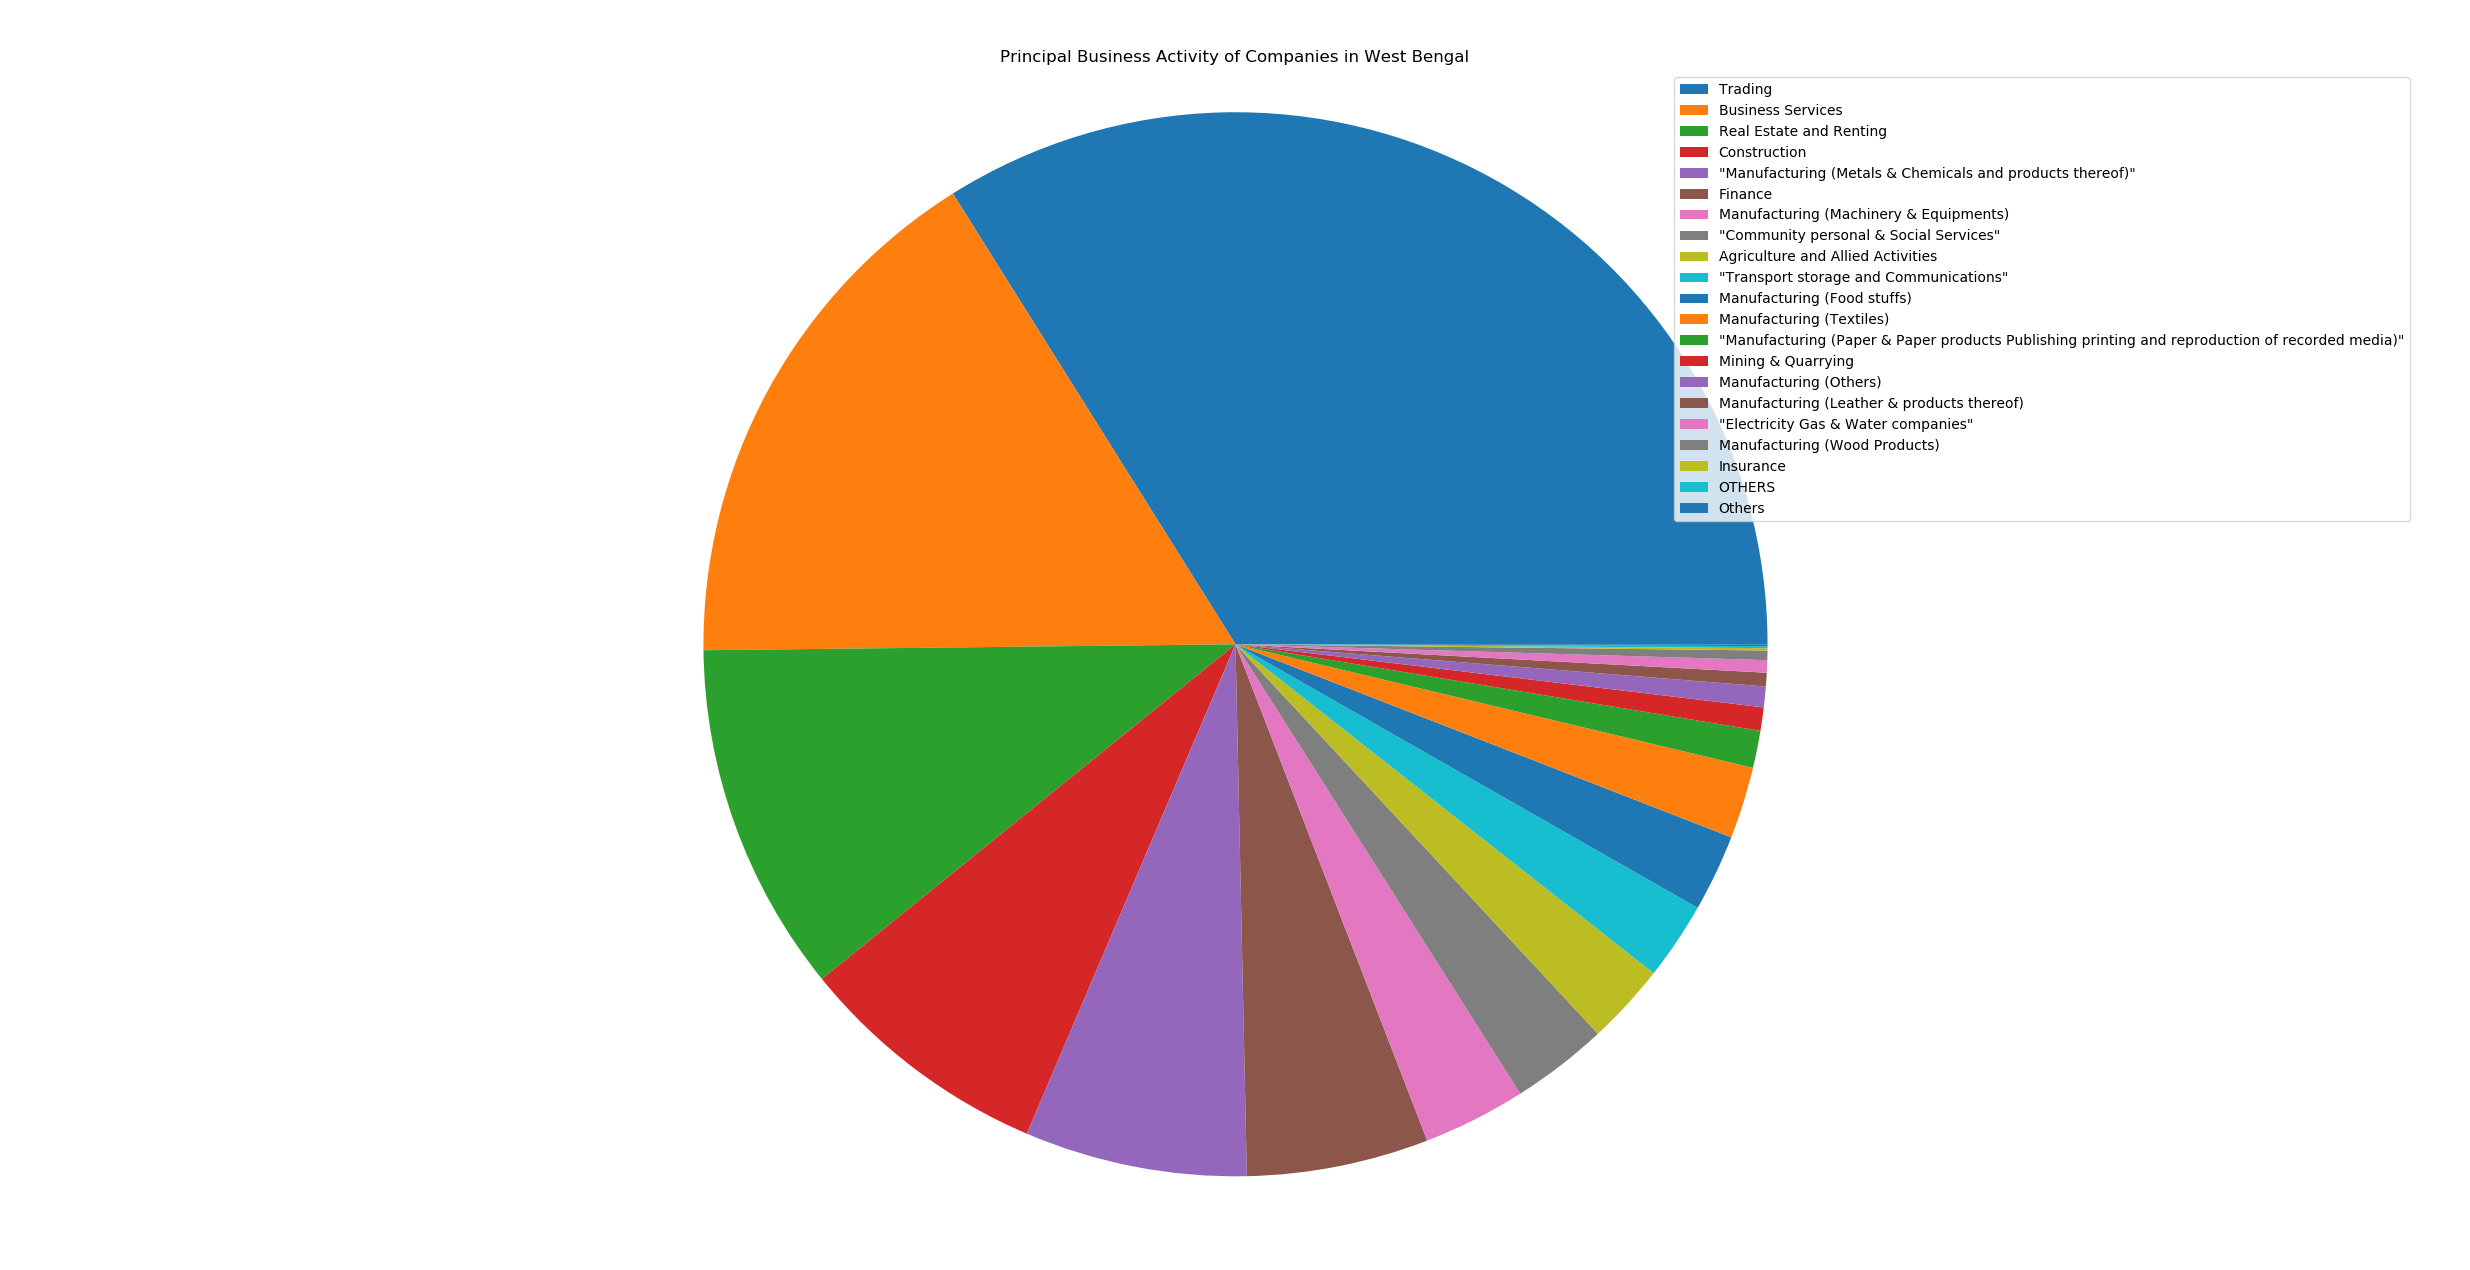
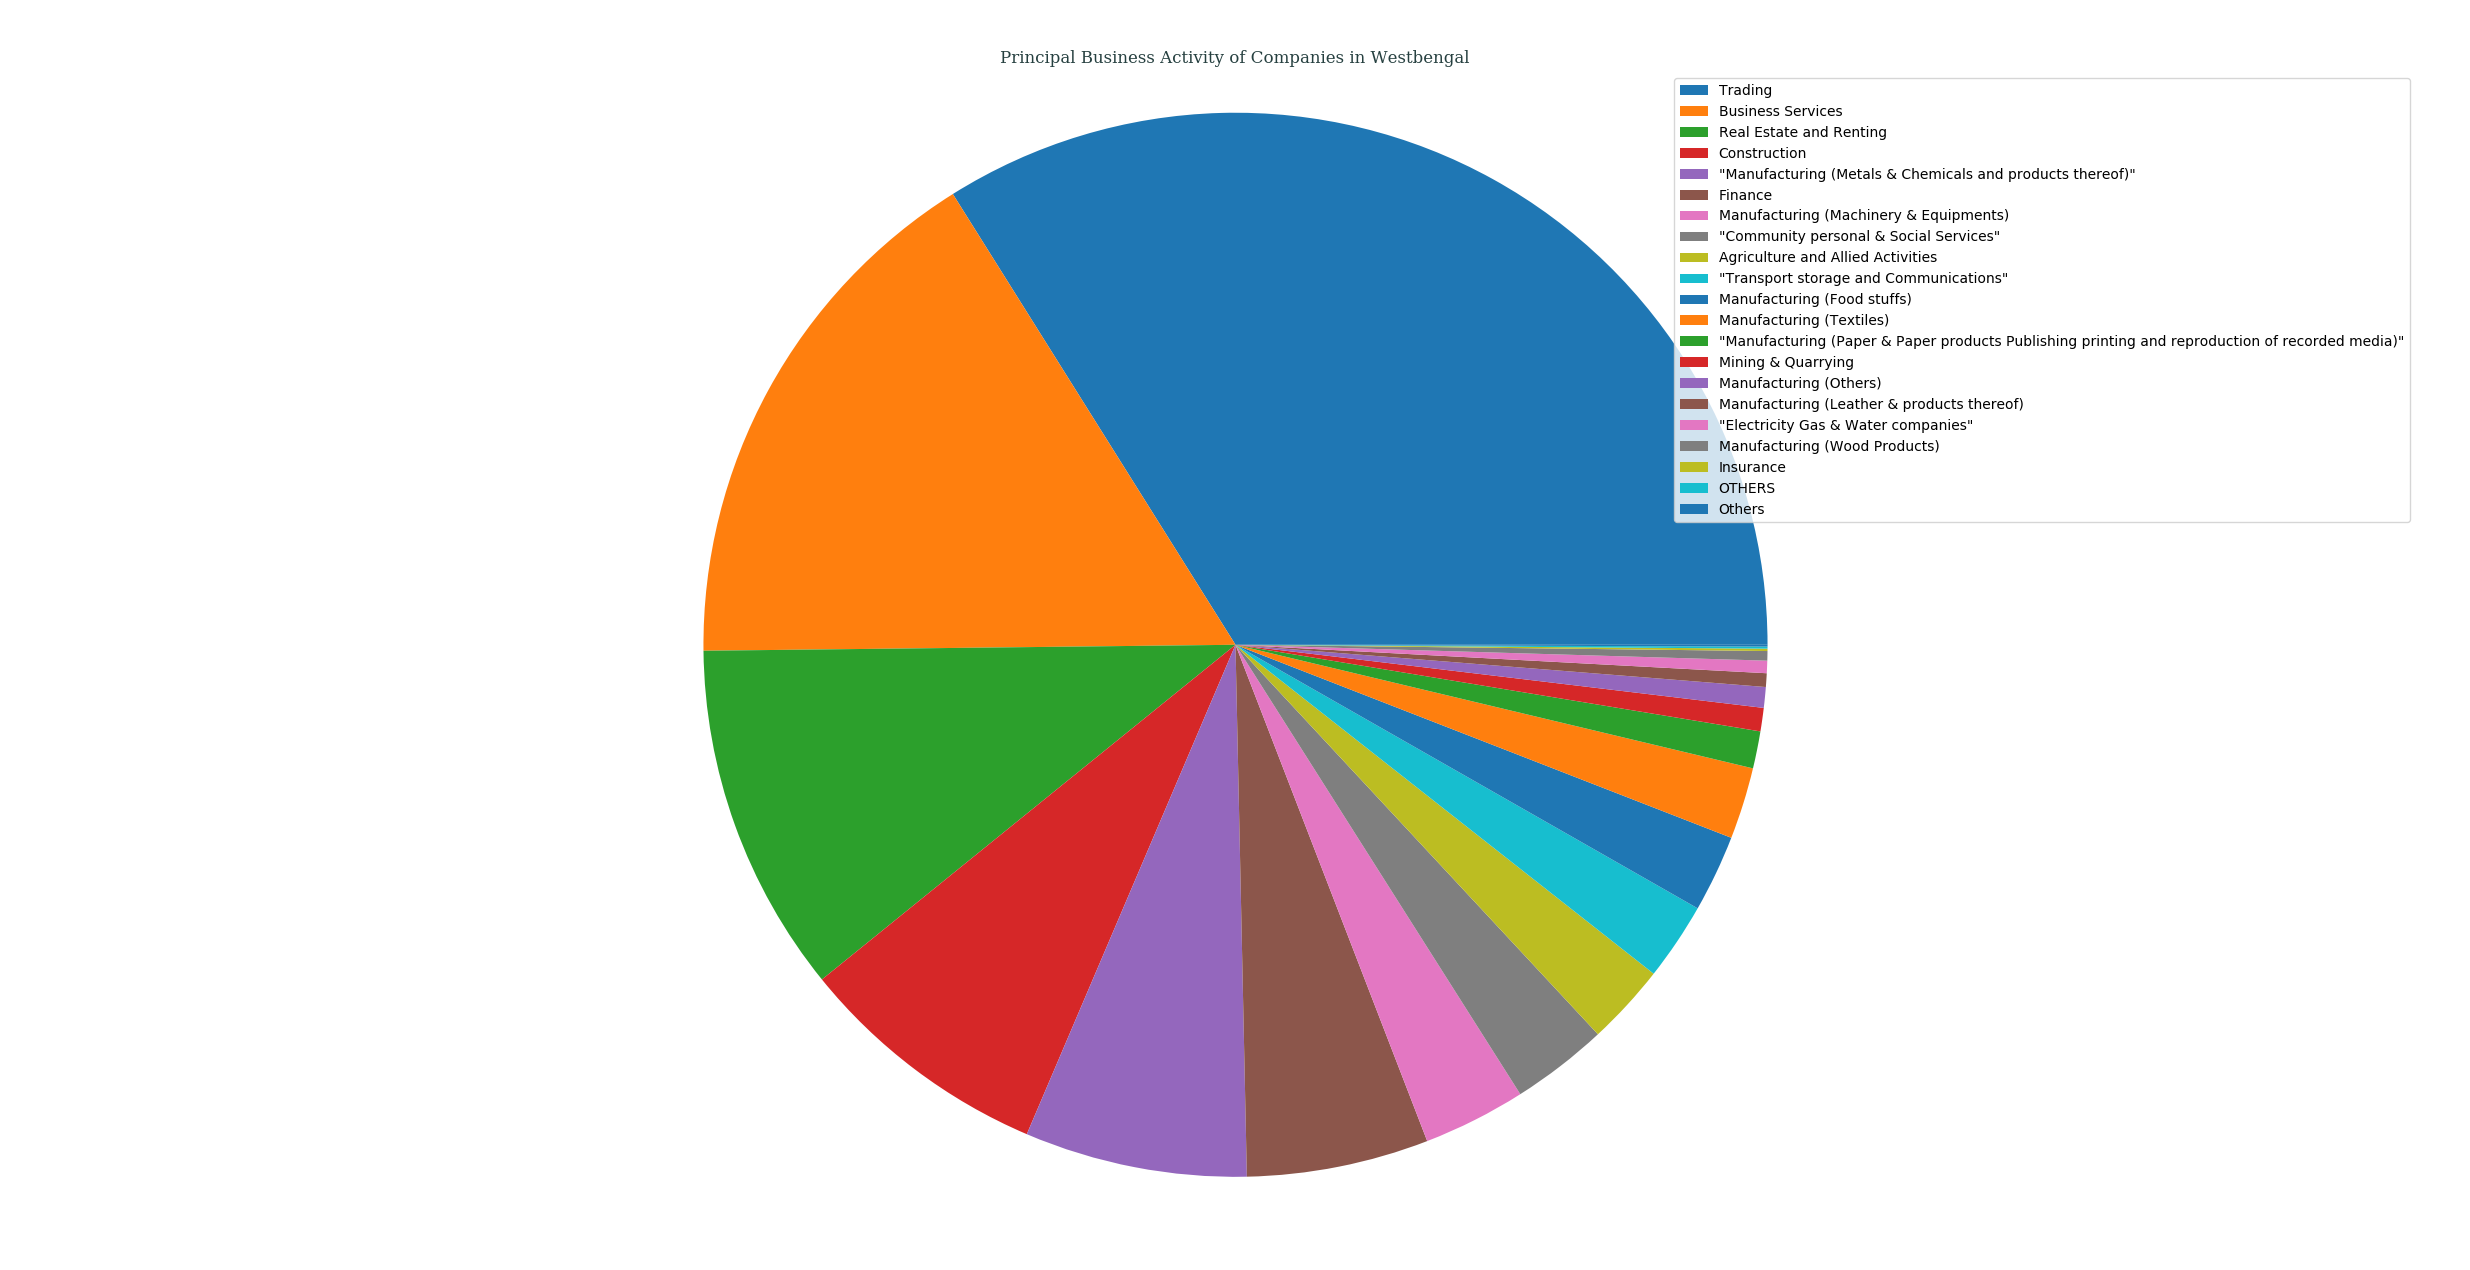
written companies registered on yearly basis in West Bengal, India, based classifier & plotter

diff --git a/app.py b/app.py
@@ -1,7 +1,8 @@
 #!/usr/bin/python3
 
 from re import compile as reg_compile
-from os.path import basename
+from os.path import basename, join
+from os import listdir
 from functools import reduce
 try:
     from model.corporateStat import CompaniesUnderState
@@ -10,8 +11,17 @@ except ImportError as e:
     print('[!]Module Unavailable: {}'.format(str(e)))
     exit(1)
 
+'''
+    Reads from each CSV datafiles present in `./data/`,
+    holding Ministry of Corporate Affair's ( M.C.A. ) Company Data
+    for a certain state & generates 6 plots for each of them.
 
-def main(targetPath='./data/mca_westbengal_21042018.csv') -> float:
+    5 of them will be PIE charts & 1 will be simple plotting 
+    of registration year vs. #-of companies registered in that year.
+'''
+
+
+def main(targetPath='./data/') -> float:
     '''
         Given a CSV data file name, it'll simply extract
         State name using Regular Expression(s)
@@ -37,21 +47,31 @@ def main(targetPath='./data/mca_westbengal_21042018.csv') -> float:
         return reduce(lambda acc, cur: (acc[0] + 1, acc[1]+1) if cur else (acc[0], acc[1]+1), result, (0, 0))
 
     try:
-        companiesUnderState = CompaniesUnderState.importFromCSV(
-            __extract_state__(basename(targetPath)), targetPath=targetPath)
         return __divide__(
-            *__calculateSuccess__([
-                plotCategorizedCompanyDataForACertainState(categorizeAsPerCompanyStatus(
-                    companiesUnderState.companies), './plots/{}_company_status.png'.format(basename(targetPath)[:-4]), 'Status of Companies in West Bengal'),
-                plotCategorizedCompanyDataForACertainState(categorizeAsPerCompanyClass(
-                    companiesUnderState.companies), './plots/{}_company_class.png'.format(basename(targetPath)[:-4]), 'Class of Companies in West Bengal'),
-                plotCategorizedCompanyDataForACertainState(categorizeAsPerCompanyCategory(
-                    companiesUnderState.companies), './plots/{}_company_category.png'.format(basename(targetPath)[:-4]), 'Category of Companies in West Bengal'),
-                plotCategorizedCompanyDataForACertainState(categorizeAsPerCompanySubCategory(
-                    companiesUnderState.companies), './plots/{}_company_subCategory.png'.format(basename(targetPath)[:-4]), 'SubCategory of Companies in West Bengal'),
-                plotCategorizedCompanyDataForACertainState(categorizeAsPerCompanyPrincipalBusinessActivity(
-                    companiesUnderState.companies), './plots/{}_company_principalBusinessActivity.png'.format(basename(targetPath)[:-4]), 'Principal Business Activity of Companies in West Bengal')
-            ])
+            *__calculateSuccess__(
+                reduce(lambda acc, cur: [
+                    plotCategorizedCompanyDataForACertainState(categorizeAsPerCompanyStatus(
+                        CompaniesUnderState.importFromCSV(
+                            __extract_state__(basename(cur)), targetPath=cur).companies), './plots/{}_company_status.png'.format(basename(cur)[:-4]), 'Status of Companies in {}'.format(__extract_state__(basename(cur)))),
+                    plotCategorizedCompanyDataForACertainState(categorizeAsPerCompanyClass(
+                        CompaniesUnderState.importFromCSV(
+                            __extract_state__(basename(cur)), targetPath=cur).companies), './plots/{}_company_class.png'.format(basename(cur)[:-4]), 'Class of Companies in {}'.format(__extract_state__(basename(cur)))),
+                    plotCategorizedCompanyDataForACertainState(categorizeAsPerCompanyCategory(
+                        CompaniesUnderState.importFromCSV(
+                            __extract_state__(basename(cur)), targetPath=cur).companies), './plots/{}_company_category.png'.format(basename(cur)[:-4]), 'Category of Companies in {}'.format(__extract_state__(basename(cur)))),
+                    plotCategorizedCompanyDataForACertainState(categorizeAsPerCompanySubCategory(
+                        CompaniesUnderState.importFromCSV(
+                            __extract_state__(basename(cur)), targetPath=cur).companies), './plots/{}_company_subCategory.png'.format(basename(cur)[:-4]), 'SubCategory of Companies in {}'.format(__extract_state__(basename(cur)))),
+                    plotCategorizedCompanyDataForACertainState(categorizeAsPerCompanyPrincipalBusinessActivity(
+                        CompaniesUnderState.importFromCSV(
+                            __extract_state__(basename(cur)), targetPath=cur).companies), './plots/{}_company_principalBusinessActivity.png'.format(basename(cur)[:-4]), 'Principal Business Activity of Companies in {}'.format(__extract_state__(basename(cur)))),
+                    plotCompanyRegistrationDateWiseCategorizedData(categorizeAsPerCompanyDateOfRegistration(
+                        CompaniesUnderState.importFromCSV(
+                            __extract_state__(basename(cur)), targetPath=cur).companies), './plots/{}_company_dateOfRegistration.png'.format(basename(cur)[:-4]), 'Registration of Companies in {}'.format(__extract_state__(basename(cur))))
+                ] + acc,
+                    map(lambda v: join(targetPath, v),
+                        filter(lambda v: v.endswith('csv'), listdir(targetPath))), [])
+            )
         )  # calculating rate of success of these operation(s)
     except Exception:
         return 0.0

diff --git a/util.py b/util.py
@@ -5,6 +5,7 @@ from os.path import dirname, exists
 from os import mkdir
 try:
     from matplotlib import pyplot as plt
+    from matplotlib.ticker import MultipleLocator, FormatStrFormatter
 except ImportError as e:
     print('[!]Module Unavailable : {}'.format(str(e)))
     exit(1)
@@ -22,6 +23,12 @@ def plotCategorizedCompanyDataForACertainState(dataSet, targetPath, title):
         if(not exists(dirname(targetPath))):
             # creating target directory if not existing already
             mkdir(dirname(targetPath))
+        font = {
+            'family': 'serif',
+            'color': '#264040',
+            'weight': 'normal',
+            'size': 12
+        }
         labels = sorted(dataSet, key=lambda elem:
                         dataSet[elem], reverse=True)
         # this is the actual data to be plotted
@@ -29,8 +36,8 @@ def plotCategorizedCompanyDataForACertainState(dataSet, targetPath, title):
         # figure on which pie chart to be drawn ( of size 2400x1200 )
         plt.figure(figsize=(24, 12), dpi=100)
         patches, _ = plt.pie(data)  # plotting pie chart
-        plt.legend(patches, labels, loc='best')
-        plt.title(title)
+        plt.legend(patches, labels, loc='best', fontsize='medium')
+        plt.title(title, fontdict=font)
         plt.axis('equal')
         plt.tight_layout()
         plt.savefig(targetPath, bbox_inches='tight',
@@ -94,6 +101,61 @@ def categorizeAsPerCompanySubCategory(dataSet):
 
 def categorizeAsPerCompanyPrincipalBusinessActivity(dataSet):
     return reduce(lambda acc, cur: dict([(cur.principalBusinessActivity, 1)] + [(k, v) for k, v in acc.items()]) if cur.principalBusinessActivity not in acc else dict(((k, v + 1) if k == cur.principalBusinessActivity else (k, v) for k, v in acc.items())), dataSet, {})
+
+
+'''
+    Plots a graph of year of registration vs. #-of companies registered
+    in that certain year, while using dataset obtained from function defined just below it.
+'''
+
+
+def plotCompanyRegistrationDateWiseCategorizedData(dataSet, targetPath, title):
+    try:
+        if(not exists(dirname(targetPath))):
+            # creating target directory if not existing already
+            mkdir(dirname(targetPath))
+        # style `ggplot` is in use
+        with plt.style.context('ggplot'):
+            font = {
+                'family': 'serif',
+                'color': '#264040',
+                'weight': 'normal',
+                'size': 12
+            }
+            # a range from `first when a company was registered` to `nearest year upto which we have any status`
+            x = range(min(dataSet), max(dataSet) + 1)
+            y = [dataSet.get(i, 0) for i in x]
+            plt.figure(figsize=(24, 12), dpi=100)
+            # creating major x-tick locator every 10 years
+            plt.gca().xaxis.set_major_locator(MultipleLocator(10))
+            # creating x-tick formatter using only year name
+            plt.gca().xaxis.set_major_formatter(FormatStrFormatter('%d'))
+            # setting minor x-tick locator every 1 year
+            plt.gca().xaxis.set_minor_locator(MultipleLocator(1))
+            plt.plot(x, y, 'r-', lw=1.5)
+            plt.xlabel('Year', fontdict=font, labelpad=16)
+            plt.ylabel('# of Companies Registered', fontdict=font, labelpad=16)
+            plt.title(title, fontdict=font)
+            plt.savefig(targetPath, bbox_inches='tight', pad_inches=.5)
+            plt.close()
+        return True
+    except Exception:
+        return False
+
+
+'''
+    Filters out those companies which has `dateOfRegistration` field None
+    & classifies remaining ones using year of registration
+
+    So finally we get a Dict[int, int], holding a mapping between
+    year of registration & #-of companies registered in that year,
+    which is going to be used by above function for plotting a graph.
+'''
+
+
+def categorizeAsPerCompanyDateOfRegistration(dataSet):
+    return reduce(lambda acc, cur: dict([(cur.dateOfRegistration.year, 1)] + [(k, v) for k, v in acc.items()]) if cur.dateOfRegistration.year not in acc else dict(((k, v + 1) if k == cur.dateOfRegistration.year else (k, v) for k, v in acc.items())),
+                  filter(lambda v: v.dateOfRegistration is not None, dataSet), {})
 
 
 if __name__ == '__main__':

diff --git a/model/corporateStat.py b/model/corporateStat.py
@@ -88,7 +88,7 @@ class CompaniesUnderState:
             # which is to be processed for creating an instance of Company class
             with open(targetPath, mode='r', encoding='ISO-8859-1') as fd:
                 companiesUnderStateObject = CompaniesUnderState(
-                    state, [Company(*__fixCommaIssueInAddress__(line).split(',')[:-2]) for line in fd.readlines()[1:]])
+                    state, (Company(*__fixCommaIssueInAddress__(line).split(',')[:-2]) for line in fd.readlines()[1:]))
         except Exception:
             companiesUnderStateObject = None
         finally:

diff --git a/README.md b/README.md
@@ -2,7 +2,6 @@
 Data analysis done on Ministry of Corporate Affairs, Govt. of India's open data to get deeper insight, with :heart:
 
 ## Analysis of M.C.A. Data for _West Bengal_
----
 ### Status of Companies
 Following PIE chart shows an overview of STATUS _( as of 21-04-2018 )_ of various companies in West Bengal, India.
 - Active ( 136423 )
@@ -82,5 +81,11 @@ Following PIE chart shows various companies categorized by their PRINCIPAL_BUSIN
 - Others ( 0.05% )
 
 ![companies_categorized_by_principalBusinessActivity_in_west_bengal](plots/mca_westbengal_21042018_company_principalBusinessActivity.png)
+
+---
+### Registration of Companies by Year
+Companies registered in West Bengal gets categorized by Year of Registration, which is plotted as year of registration vs. #-of companies registered in that certain year _( while filtering out those companies which didn't had any date of registration data )_.
+
+![registration_of_companies_yearly_in_west_bengal](plots/mca_westbengal_21042018_company_dateOfRegistration.png)
 
 **More to come ...** :wink:
